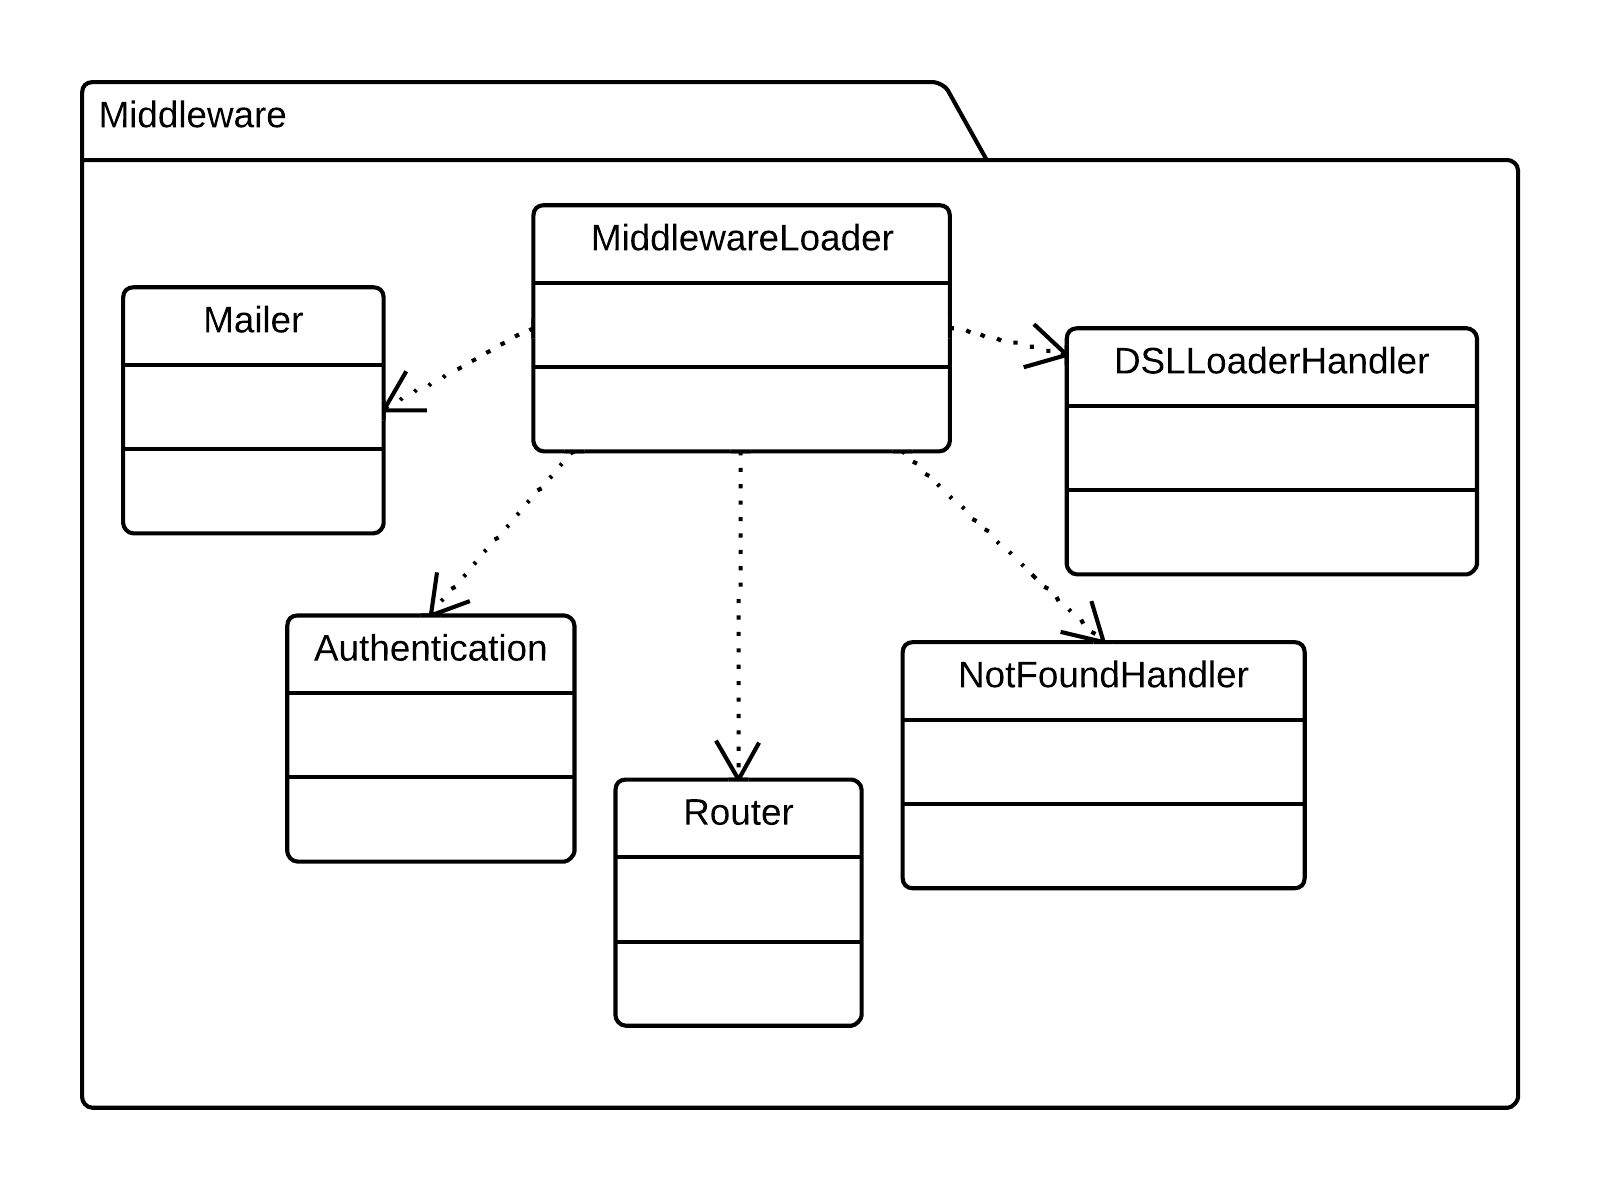
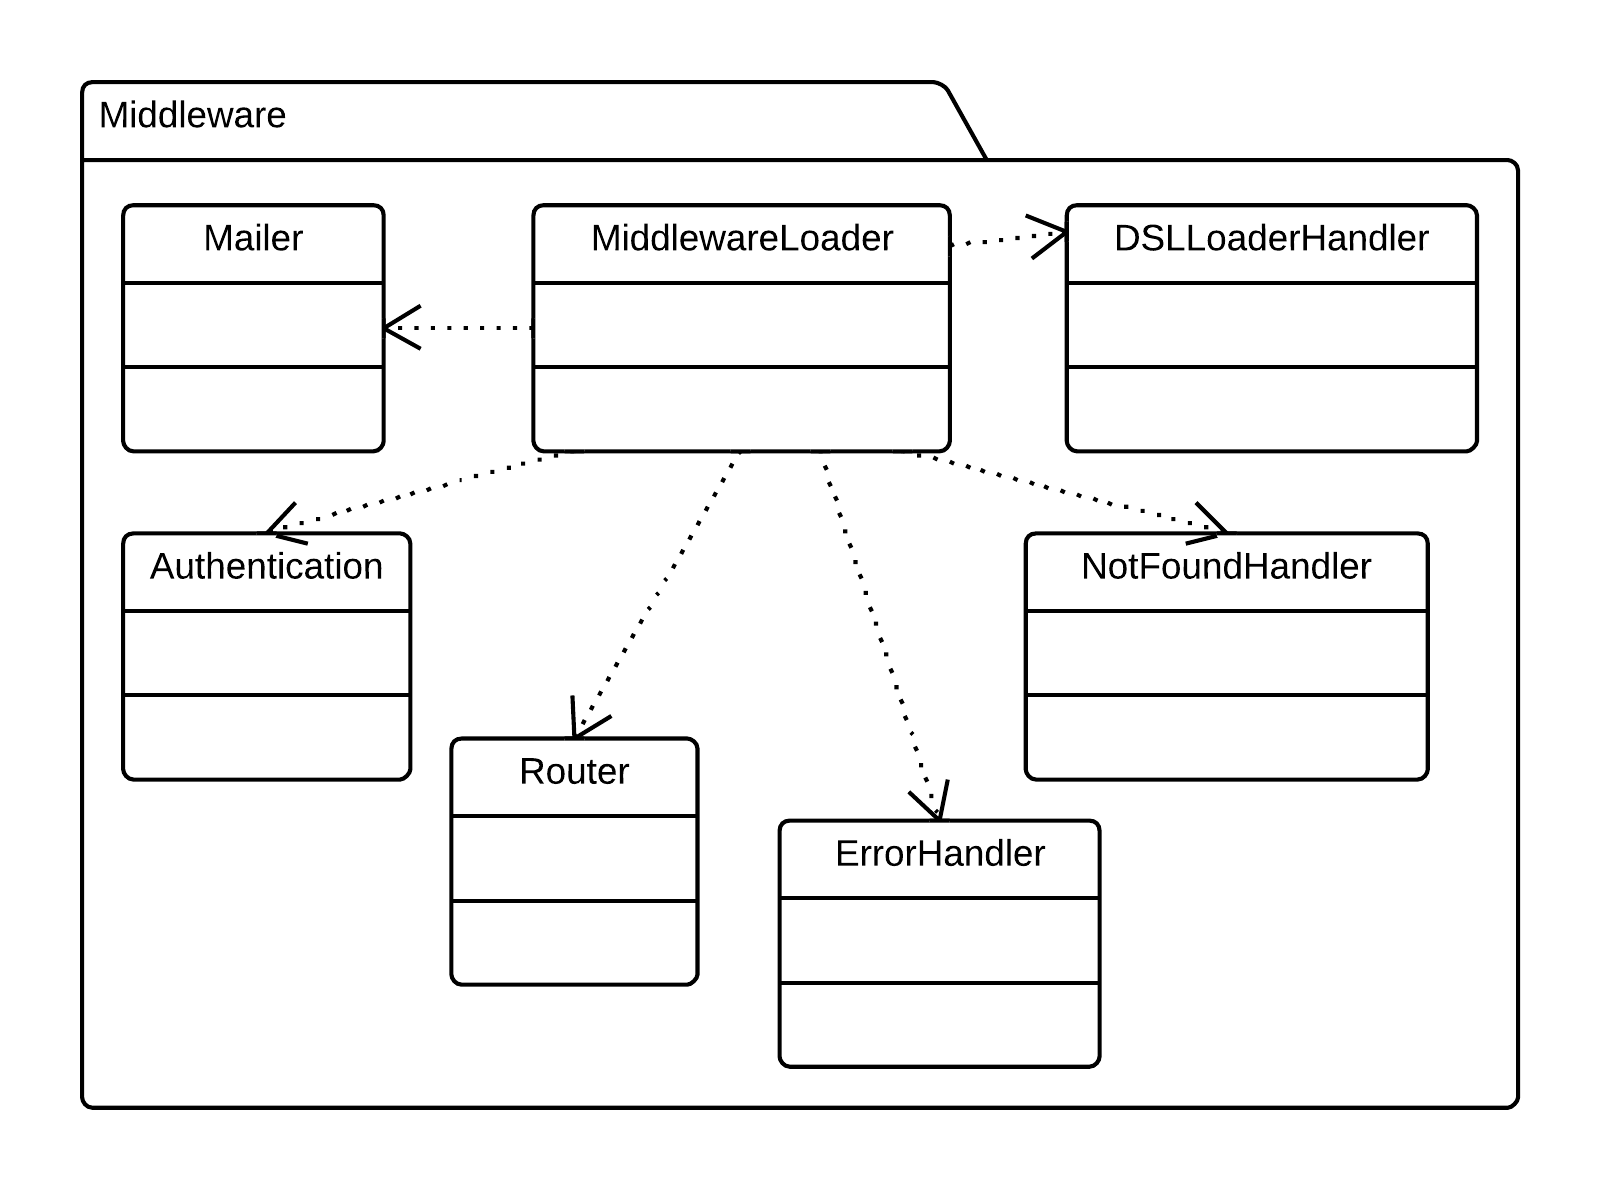
Modificata specifica

diff --git a/documenti/SpecificaTecnica/backend-packages.tex b/documenti/SpecificaTecnica/backend-packages.tex
@@ -3,7 +3,7 @@
   \paragraph{Informazioni sul package} 
     \begin{figure}[H] 
       \begin{center} 
-        \includegraphics[scale=1]{packages/Back-end.png}  
+        \includegraphics[width=\textwidth]{packages/Back-end.png}  
         \caption{Componente Back-end}
       \end{center}  
     \end{figure} 
@@ -20,7 +20,7 @@
   \paragraph{Informazioni sul package} 
     \begin{figure}[H] 
       \begin{center} 
-        \includegraphics[scale=1]{packages/Back-end::Lib::AuthModel.png}  
+        \includegraphics[width=\textwidth]{packages/Back-end::Lib::AuthModel.png}  
         \caption{Componente Back-end::Lib::AuthModel}
       \end{center}  
     \end{figure} 
@@ -37,14 +37,14 @@
           \end{itemize}      
         \textbf{Utilizzo}  
           \begin{itemize}
-            \item[] Viene utilizzata per l'interfacciamento con la libreria \glossario{mongoose} per la registrazione dello schema dei dati, e con la libreria passport-local-mongoose per il popolamento automatico dello schema con campi dati e metodi predefiniti.
+            \item[] Viene utilizzata per l'interfacciamento con la libreria \glossario{Mongoose} per la registrazione dello schema dei dati, e con la libreria passport-local-mongoose per il popolamento automatico dello schema con campi dati e metodi predefiniti.
 Il costruttore del modello dello schema dei dati viene registrato nella \glossario{Factory} di \glossario{Mongoose} ed ogni istanza condividerà la stessa connessione al server.
           \end{itemize}
   \subsubsection{Back-end::DeveloperProject}
   \paragraph{Informazioni sul package} 
     \begin{figure}[H] 
       \begin{center} 
-        \includegraphics[scale=1]{packages/Back-end::DeveloperProject.png}  
+        \includegraphics[width=\textwidth]{packages/Back-end::DeveloperProject.png}  
         \caption{Componente Back-end::DeveloperProject}
       \end{center}  
     \end{figure} 
@@ -67,7 +67,7 @@ Il costruttore del modello dello schema dei dati viene registrato nella \glossar
   \paragraph{Informazioni sul package} 
     \begin{figure}[H] 
       \begin{center} 
-        \includegraphics[scale=1]{packages/Back-end::Lib::MailView.png}  
+        \includegraphics[width=\textwidth]{packages/Back-end::Lib::MailView.png}  
         \caption{Componente Back-end::Lib::MailView}
       \end{center}  
     \end{figure} 
@@ -90,7 +90,7 @@ Il costruttore del modello dello schema dei dati viene registrato nella \glossar
   \paragraph{Informazioni sul package} 
     \begin{figure}[H] 
       \begin{center} 
-        \includegraphics[scale=1]{packages/Back-end::Lib.png}  
+        \includegraphics[width=\textwidth]{packages/Back-end::Lib.png}  
         \caption{Componente Back-end::Lib}
       \end{center}  
     \end{figure} 
@@ -110,7 +110,7 @@ Il costruttore del modello dello schema dei dati viene registrato nella \glossar
   \paragraph{Informazioni sul package} 
     \begin{figure}[H] 
       \begin{center} 
-        \includegraphics[scale=1]{packages/Back-end::Lib::Middleware.png}  
+        \includegraphics[width=\textwidth]{packages/Back-end::Lib::Middleware.png}  
         \caption{Componente Back-end::Lib::Middleware}
       \end{center}  
     \end{figure} 
@@ -118,10 +118,6 @@ Il costruttore del modello dello schema dei dati viene registrato nella \glossar
     \begin{itemize}
     \item[] \glossario{Package} contenente classi che costituiscono gli handler della catena di chiamate a cui viene passata la responsabilità di gestire una richiesta,  decorando quest'ultima con parametri e metodi utilizzabili dai controller. Costituisce una parte dell' \glossario{application logic} nell'architettura mvc del back-end.
     \end{itemize} 
-    \subparagraph{Package contenuti} 
-    \begin{itemize}
-        \item Back-end::Lib::Middleware::Errorhandler
-    \end{itemize}
     \paragraph{Classi}
       \subparagraph{Back-end::Lib::Middleware::Router}
         
@@ -175,16 +171,6 @@ Il costruttore del modello dello schema dei dati viene registrato nella \glossar
           \begin{itemize}
               \item{Back-end::Lib::MailView::ForgotMailView}
           \end{itemize}
-      \subparagraph{Back-end::Lib::Middleware::NotFoundHandler}
-        
-        \textbf{\\ \\ Descrizione} 
-          \begin{itemize}
-            \item[] Classe che si occupa la gestione dell'errore di pagina non trovata. È uno dei componenti subsystem class del \glossario{Design Pattern} \glossario{Facade} e handler del \glossario{Design Pattern} \glossario{Chain of responsability}.
-          \end{itemize}      
-        \textbf{Utilizzo}  
-          \begin{itemize}
-            \item[] Viene utilizzata per generare una pagina 404 di errore nel caso in cui l'\glossario{URI} passato non corrisponda ad una risorsa presente nell'applicazione.
-          \end{itemize}
       \subparagraph{Back-end::Lib::Middleware::MiddlewareLoader}
         
         \textbf{\\ \\ Descrizione} 
@@ -203,11 +189,32 @@ Il costruttore del modello dello schema dei dati viene registrato nella \glossar
               \item{Back-end::Lib::Middleware::Mailer}
               \item{Back-end::Lib::Middleware::NotFoundHandler}
           \end{itemize}
+      \subparagraph{Back-end::Lib::Middleware::NotFoundHandler}
+        
+        \textbf{\\ \\ Descrizione} 
+          \begin{itemize}
+            \item[] Classe che si occupa la gestione dell'errore di pagina non trovata. È uno dei componenti subsystem class del \glossario{Design Pattern} \glossario{Facade} e handler del \glossario{Design Pattern} \glossario{Chain of responsability}.
+          \end{itemize}      
+        \textbf{Utilizzo}  
+          \begin{itemize}
+            \item[] Viene utilizzata per generare una pagina 404 di errore nel caso in cui l'\glossario{URI} passato non corrisponda ad una risorsa presente nell'applicazione.
+          \end{itemize}
+      \subparagraph{Back-end::Lib::Middleware::Errorhandler}
+        
+        \textbf{\\ \\ Descrizione} 
+          \begin{itemize}
+            \item[] Questa classe gestisce gli errori generati nei precedenti middleware o controller. Invia al client una risposta con stato HTTP 500 (server error) con una descrizione dell'errore nel formato JSON.
+È uno dei componenti subsystem class del \glossario{Design Pattern} \glossario{Facade} e handler del \glossario{Design Pattern} \glossario{Chain of responsability}.
+          \end{itemize}      
+        \textbf{Utilizzo}  
+          \begin{itemize}
+            \item[] Questo middleware viene utilizzato per ultimo nella catena di gestione delle richieste di Express, in modo da gestire tutti gli errori generati precedentemente.
+          \end{itemize}
   \subsubsection{Back-end::Lib::DSLModel}
   \paragraph{Informazioni sul package} 
     \begin{figure}[H] 
       \begin{center} 
-        \includegraphics[scale=1]{packages/Back-end::Lib::DSLModel.png}  
+        \includegraphics[width=\textwidth]{packages/Back-end::Lib::DSLModel.png}  
         \caption{Componente Back-end::Lib::DSLModel}
       \end{center}  
     \end{figure} 
@@ -339,20 +346,6 @@ Costituisce la componente model dell'architettura MVC del back-end.
           \begin{itemize}
             \item[] 
           \end{itemize}
-      \subparagraph{Back-end::Lib::DSLModel::DSLInterpreterStrategy::ConcreteDSLInterpreter}
-        
-        \textbf{\\ \\ Descrizione} 
-          \begin{itemize}
-            \item[] Classe che concretizza l'interprete del \glossario{DSL}. È uno dei componenti ConcreteStrategy del \glossario{Design Pattern} \glossario{Strategy}.
-          \end{itemize}      
-        \textbf{Utilizzo}  
-          \begin{itemize}
-            \item[] Viene utilizzata per implementare l'algoritmo utilizzato nell'interfaccia \texttt{Back-end::Lib::DSLModel::DSLInterpreterStrategy} per l'interpretazione del linguaggio \glossario{DSL}. Conterrà al suo interno un metodo che genererà il \glossario{parser} a partire da una grammatica regolare.
-          \end{itemize}
-          \textbf{Classi Ereditate}
-          \begin{itemize}
-                \item{Back-end::Lib::DSLModel::DSLInterpreterStrategy}
-          \end{itemize}
       \subparagraph{Back-end::Lib::DSLModel::DSLInterpreterStrategy}
         
         \textbf{\\ \\ Descrizione} 
@@ -382,11 +375,25 @@ Costituisce la componente model dell'architettura MVC del back-end.
               \item{Back-end::Lib::DSLModel::ShowModel}
               \item{Back-end::Lib::DSLModel::IndexModel}
           \end{itemize}
+      \subparagraph{Back-end::Lib::DSLModel::DSLInterpreterStrategy::ConcreteDSLInterpreter}
+        
+        \textbf{\\ \\ Descrizione} 
+          \begin{itemize}
+            \item[] Classe che concretizza l'interprete del \glossario{DSL}. È uno dei componenti ConcreteStrategy del \glossario{Design Pattern} \glossario{Strategy}.
+          \end{itemize}      
+        \textbf{Utilizzo}  
+          \begin{itemize}
+            \item[] Viene utilizzata per implementare l'algoritmo utilizzato nell'interfaccia \texttt{Back-end::Lib::DSLModel::DSLInterpreterStrategy} per l'interpretazione del linguaggio \glossario{DSL}. Conterrà al suo interno un metodo che genererà il \glossario{parser} a partire da una grammatica regolare.
+          \end{itemize}
+          \textbf{Classi Ereditate}
+          \begin{itemize}
+                \item{Back-end::Lib::DSLModel::DSLInterpreterStrategy}
+          \end{itemize}
   \subsubsection{Back-end::Lib::Controller}
   \paragraph{Informazioni sul package} 
     \begin{figure}[H] 
       \begin{center} 
-        \includegraphics[scale=1]{packages/Back-end::Lib::Controller.png}  
+        \includegraphics[width=\textwidth]{packages/Back-end::Lib::Controller.png}  
         \caption{Componente Back-end::Lib::Controller}
       \end{center}  
     \end{figure} 
@@ -404,19 +411,6 @@ Costituisce la componente model dell'architettura MVC del back-end.
         \textbf{Utilizzo}  
           \begin{itemize}
             \item[] Viene utilizzata per visualizzare la \glossario{index-page} degli utenti, visualizzare le relative \glossario{show-page}, eliminare un utente e modificare il profilo. Mette a disposizione dei metodi per effettuare tutte queste operazioni.
-          \end{itemize}
-      \subparagraph{Back-end::Lib::Controller::IndexController}
-        
-        \textbf{\\ \\ Descrizione} 
-          \begin{itemize}
-            \item[] Classe di gestione per la risorsa index 
-È uno dei componenti product del \glossario{Design Pattern} \glossario{Factory method}.
-
-          \end{itemize}      
-        \textbf{Utilizzo}  
-          \begin{itemize}
-            \item[] Viene utilizzata per gestire la risorsa corrispondente all'index-page di un \glossario{Document}, offrendo metodi per restituendone gli attributi, effettuarne la modifica o la cancellazione e delega la visualizzazione dell'index-page alla classe \texttt{Back-end::Lib::DSLModel::DSLDomain}.
-
           \end{itemize}
       \subparagraph{Back-end::Lib::Controller::ActionController}
         
@@ -438,16 +432,6 @@ Costituisce la componente model dell'architettura MVC del back-end.
         \textbf{Utilizzo}  
           \begin{itemize}
             \item[] Viene costruita una sola volta dalla classe \texttt{Back-end::Lib::Middleware::Router} e si occupa di creare e restituire l'oggetto \textit{Controller} richiesto.
-          \end{itemize}
-      \subparagraph{Back-end::Lib::Controller::ForgotController}
-        
-        \textbf{\\ \\ Descrizione} 
-          \begin{itemize}
-            \item[] Classe che rappresenta il sistema di recupero e ripristino password. È uno dei componenti product del \glossario{Design Pattern} \glossario{Factory method}.
-          \end{itemize}      
-        \textbf{Utilizzo}  
-          \begin{itemize}
-            \item[] La classe fornisce dei metodi per effettuare una richiesta di reset password e, in un secondo momento, procedere al suo ripristino. La richiesta di reset avviene mandando un'email all'indirizzo dell'utente tramite la classe \texttt{Back-end::Lib::Middleware::Mailer}. All'interno di questo messaggio sarà presente un link che procederà ad effettuare il login dell'utente e a reindirizzarlo nella pagina di modifica profilo, dalla quale potrà modificare la password.
           \end{itemize}
       \subparagraph{Back-end::Lib::Controller::AuthController}
         
@@ -481,16 +465,26 @@ Costituisce la componente model dell'architettura MVC del back-end.
           \begin{itemize}
             \item[] Viene utilizzata per gestire una richiesta della risorsa show-page, delegando alla classe \texttt{Back-end::Lib::DSLModel::DSLDomain} la sua visualizzazione.
           \end{itemize}
-  \subsubsection{Back-end::Lib::Middleware::Errorhandler}
-  \paragraph{Informazioni sul package} 
-    \begin{figure}[H] 
-      \begin{center} 
-        \includegraphics[scale=1]{packages/Back-end::Lib::Middleware::Errorhandler.png}  
-        \caption{Componente Back-end::Lib::Middleware::Errorhandler}
-      \end{center}  
-    \end{figure} 
-  \subparagraph{Descrizione} 
-    \begin{itemize}
-    \item[] Questa classe gestisce gli errori generati nei precedenti middleware o controller. Invia al client una risposta con stato HTTP 500 (server error) con una descrizione dell'errore nel formato JSON.
-È uno dei componenti subsystem class del \glossario{Design Pattern} \glossario{Facade} e handler del \glossario{Design Pattern} \glossario{Chain of responsability}.
-    \end{itemize} 
+      \subparagraph{Back-end::Lib::Controller::IndexController}
+        
+        \textbf{\\ \\ Descrizione} 
+          \begin{itemize}
+            \item[] Classe di gestione per la risorsa index 
+È uno dei componenti product del \glossario{Design Pattern} \glossario{Factory method}.
+
+          \end{itemize}      
+        \textbf{Utilizzo}  
+          \begin{itemize}
+            \item[] Viene utilizzata per gestire la risorsa corrispondente all'index-page di un \glossario{Document}, offrendo metodi per restituirne gli attributi, effettuarne la modifica o la cancellazione e delega la visualizzazione dell'index-page alla classe \texttt{Back-end::Lib::DSLModel::DSLDomain}.
+
+          \end{itemize}
+      \subparagraph{Back-end::Lib::Controller::ForgotController}
+        
+        \textbf{\\ \\ Descrizione} 
+          \begin{itemize}
+            \item[] Classe che rappresenta il sistema di recupero e ripristino password. È uno dei componenti product del \glossario{Design Pattern} \glossario{Factory method}.
+          \end{itemize}      
+        \textbf{Utilizzo}  
+          \begin{itemize}
+            \item[] La classe fornisce dei metodi per effettuare una richiesta di reset password e, in un secondo momento, procedere al suo ripristino. La richiesta di reset avviene mandando un'email all'indirizzo dell'utente tramite la classe \texttt{Back-end::Lib::Middleware::Mailer}. All'interno di questo messaggio sarà presente un link che procederà ad effettuare il login dell'utente e a reindirizzarlo nella pagina di modifica profilo, dalla quale potrà modificare la password.
+          \end{itemize}

diff --git a/documenti/SpecificaTecnica/frontend-packages.tex b/documenti/SpecificaTecnica/frontend-packages.tex
@@ -1,14 +1,12 @@
-\subsection{Descrizione componenti Front-end}
-  \subsubsection{Front-end}
-  \paragraph{Informazioni sul package} 
 
+  \subsubsection{Front-end}
+  \paragraph{Informazioni sul package}
     \begin{figure}[H] 
       \begin{center} 
-        %\includegraphics[scale=1]{packages/NomePackage.png}  
+        \includegraphics[width=\textwidth]{packages/Front-end.png}  
         \caption{Componente Front-end}
       \end{center}  
     \end{figure} 
-
   \subparagraph{Descrizione} 
     \begin{itemize}
     \item[] 
@@ -20,15 +18,13 @@
         \item Front-end::Model
     \end{itemize}
   \subsubsection{Front-end::Controllers}
-  \paragraph{Informazioni sul package} 
-
+  \paragraph{Informazioni sul package}
     \begin{figure}[H] 
       \begin{center} 
-        %\includegraphics[scale=1]{packages/NomePackage.png}  
+        \includegraphics[width=\textwidth]{packages/Front-end::Controllers.png}  
         \caption{Componente Front-end::Controllers}
       \end{center}  
     \end{figure} 
-
   \subparagraph{Descrizione} 
     \begin{itemize}
     \item[] 
@@ -145,15 +141,13 @@
             \item[] 
           \end{itemize}
   \subsubsection{Front-end::Services}
-  \paragraph{Informazioni sul package} 
-
+  \paragraph{Informazioni sul package}
     \begin{figure}[H] 
       \begin{center} 
-        %\includegraphics[scale=1]{packages/NomePackage.png}  
+        \includegraphics[width=\textwidth]{packages/Front-end::Services.png}  
         \caption{Componente Front-end::Services}
       \end{center}  
     \end{figure} 
-
   \subparagraph{Descrizione} 
     \begin{itemize}
     \item[] 
@@ -163,11 +157,17 @@
         
         \textbf{\\ \\ Descrizione} 
           \begin{itemize}
-            \item[] 
+            \item[] Questa classe permette il recupero della risorsa REST rappresentante l'utente tramite la chiamata /users/$\{$user_id$\}$
           \end{itemize}      
         \textbf{Utilizzo}  
           \begin{itemize}
-            \item[] 
+            \item[] Le funzionalità offerte dalla classe sono: 
+\begin{itemize} 
+\item elenco dei dati relativi all'utente. 
+\item modifica della password relativa al utente.
+\item elevare o declassare un utente ad admin 
+\item rimozione dell'utente. 
+Tali funzionalità richiedono che l'utente sia un admin.
           \end{itemize}
       \subparagraph{Front-end::Services::AuthenticationService}
         
@@ -177,7 +177,7 @@
           \end{itemize}      
         \textbf{Utilizzo}  
           \begin{itemize}
-            \item[] La funzionalitàà offeerta dalla classe è quella di poter fornire al Controller lo stato della sessione utente.
+            \item[] La funzionalità offerta dalla classe è quella di poter fornire al Controller lo stato della sessione utente.
           \end{itemize}
       \subparagraph{Front-end::Services::ProfileService}
         
@@ -203,7 +203,7 @@ Tali funzionalità richiedono che l'utente sia autenticato al sistema.
           \end{itemize}      
         \textbf{Utilizzo}  
           \begin{itemize}
-            \item[] La funzionalitàà offeerta dalla classe è quella di poter fornire al Controller la lista degli utenti presenti nel database delle credenziali.
+            \item[] La funzionalità offerta dalla classe è quella di poter fornire al Controller la lista degli utenti presenti nel database delle credenziali.
 Tale funzionalità richiede che l'utente sia un admin.
           \end{itemize}
       \subparagraph{Front-end::Services::CollectionListService}
@@ -247,6 +247,16 @@ Tale funzionalità richiede che l'utente sia registrato.
           \begin{itemize}
             \item[] La funzionalità offerta dalla classe è quella di poter fornire al Controller la lista di Document presenti nella Collection.
           \end{itemize}
+      \subparagraph{Front-end::Services::ForgotPasswordService}
+        
+        \textbf{\\ \\ Descrizione} 
+          \begin{itemize}
+            \item[] Questa classe si occupa di inviare al server una richiesta di recupero password tramite la chiamata /password/lost e la conseguente modifica attraverso la chiamata /password/reset.
+          \end{itemize}      
+        \textbf{Utilizzo}  
+          \begin{itemize}
+            \item[] La funzionalità offerta dalla classe è quella di interagire col server delegando quest'ultimo all'invio di una mail all'utente per il recupero della password e successivamente alla sua modifica.
+          \end{itemize}
       \subparagraph{Front-end::Services::DocumentService}
         
         \textbf{\\ \\ Descrizione} 
@@ -263,26 +273,14 @@ Tale funzionalità richiede che l'utente sia registrato.
 \end{itemize} 
 Tali funzionalità richiedono che l'utente sia autenticato al sistema.
           \end{itemize}
-      \subparagraph{Front-end::Services::ForgotPasswordService}
-        
-        \textbf{\\ \\ Descrizione} 
-          \begin{itemize}
-            \item[] Questa classe si occupa di inviare al server una richiesta di recupero password tramite la chiamata /password/lost e la conseguente modifica attraverso la chiamata /password/reset.
-          \end{itemize}      
-        \textbf{Utilizzo}  
-          \begin{itemize}
-            \item[] La funzionalità offerta dalla classe è quella di interagire col server delegando quest'ultimo all'invio di una mail all'utente per il recupero della password e successivamente alla sua modifica.
-          \end{itemize}
   \subsubsection{Front-end::Model}
-  \paragraph{Informazioni sul package} 
-
+  \paragraph{Informazioni sul package}
     \begin{figure}[H] 
       \begin{center} 
-        %\includegraphics[scale=1]{packages/NomePackage.png}  
+        \includegraphics[width=\textwidth]{packages/Front-end::Model.png}  
         \caption{Componente Front-end::Model}
       \end{center}  
     \end{figure} 
-
   \subparagraph{Descrizione} 
     \begin{itemize}
     \item[] 

diff --git a/documenti/SpecificaTecnica/capitolo-back-end.tex b/documenti/SpecificaTecnica/capitolo-back-end.tex
@@ -102,7 +102,7 @@ I tipi di permessi possibili sono:
 
 \subsection{Descrizione packages e classi}
 
-%\input{backend-packages}
+\input{backend-packages}
 
 \subsection{Diagrammi generali di gestione richieste}
 Nel diagramma della gestione richieste viene mostrata l'iterazione tra server e middleware, alcuni dei quali sono offerti da Express, altri sono definiti dall'utente o da altre librerie. I \glossario{Middleware} si distinguono in Middleware di gestione delle richieste e Middleware di gestione degli errori, a seconda del numero di parametri con cui vengono invocati.
